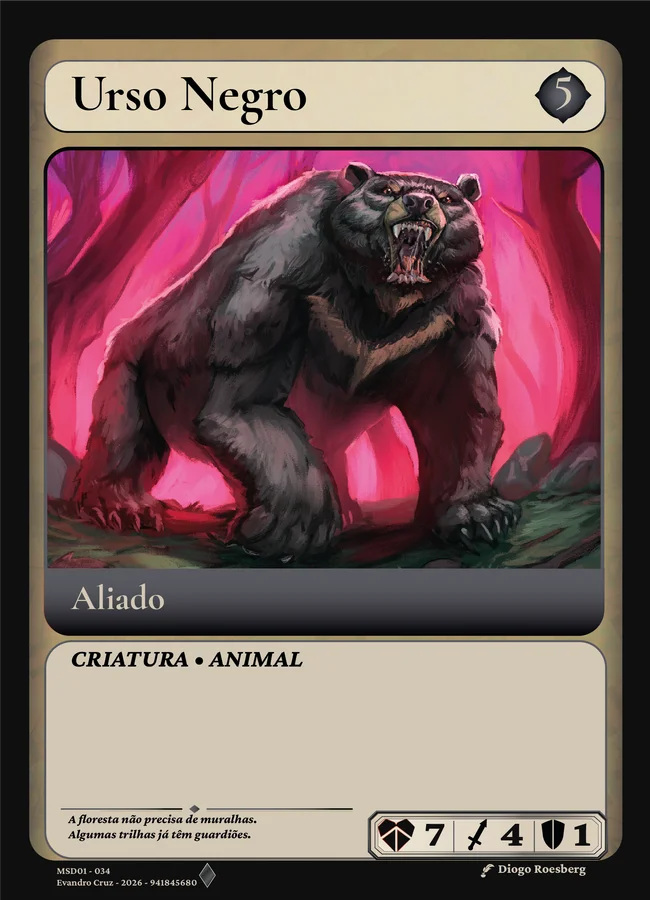
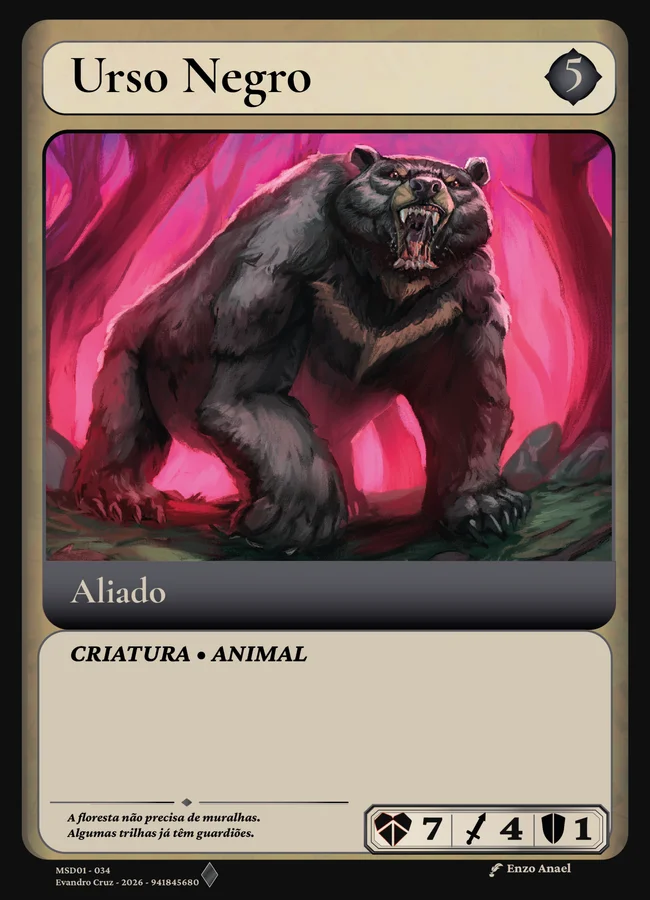
fix: credit Urso Negro to Enzo Anael and refresh card images

diff --git a/data/illustrations.js b/data/illustrations.js
@@ -29,7 +29,7 @@ const artists = {
   thornmontanha: 'Flávio Winston', tonicorevigorante: 'IlustreVick', Toupeiraescavadora: 'Katarina Banffy',
   trocaenergia: 'Katarina Banffy', truque_alertadefuga: 'Jeferson Cordeiro',
   truque_emboscada: 'IlustreVick', 'truque_interrupçãoperfeita': 'Mateus “Maten” Araújo',
-  ursonegro: 'Diogo Roesberg', xamakobold: 'Katarina Banffy', Yohanronin: 'Diogo Roesberg',
+  ursonegro: 'Enzo Anael', xamakobold: 'Katarina Banffy', Yohanronin: 'Diogo Roesberg',
   'valbrak-full-art': 'IlustreVick', 'valbrak-full-art-v3': 'André Martuscelli',
   'katsu-full-art': 'Letícia Machado', 'ademais-full-art': 'Marcella “Fufunha” Cappelletti',
   'leafae-full-art': 'Sam Trioni', 'thorn-full-art': 'rac_art_11', 'executor-full-art': 'Katarina Banffy',

diff --git a/data/cards.js b/data/cards.js
@@ -88,7 +88,7 @@ export const cards = entries.map(([id, name, type, affiliation, cost, descriptio
   image: `/media/cartas/layout-${id}.webp`,
   thumbnail: `/media/cartas/thumbs/layout-${id}.webp`,
   reading: `/media/cartas/leitura/layout-${id}.webp`,
-  original: `/cartas.png/layout-${id}.png`
+  original: `/cartas.png/layout-${id}${id === 'ursonegro' ? '.ai' : ''}.png`
 }));
 export const cardById = new Map(cards.map(card => [card.id, card]));
 export function normalize(value) { return String(value).normalize('NFD').replace(/[\u0300-\u036f]/g, '').toLowerCase().trim(); }
